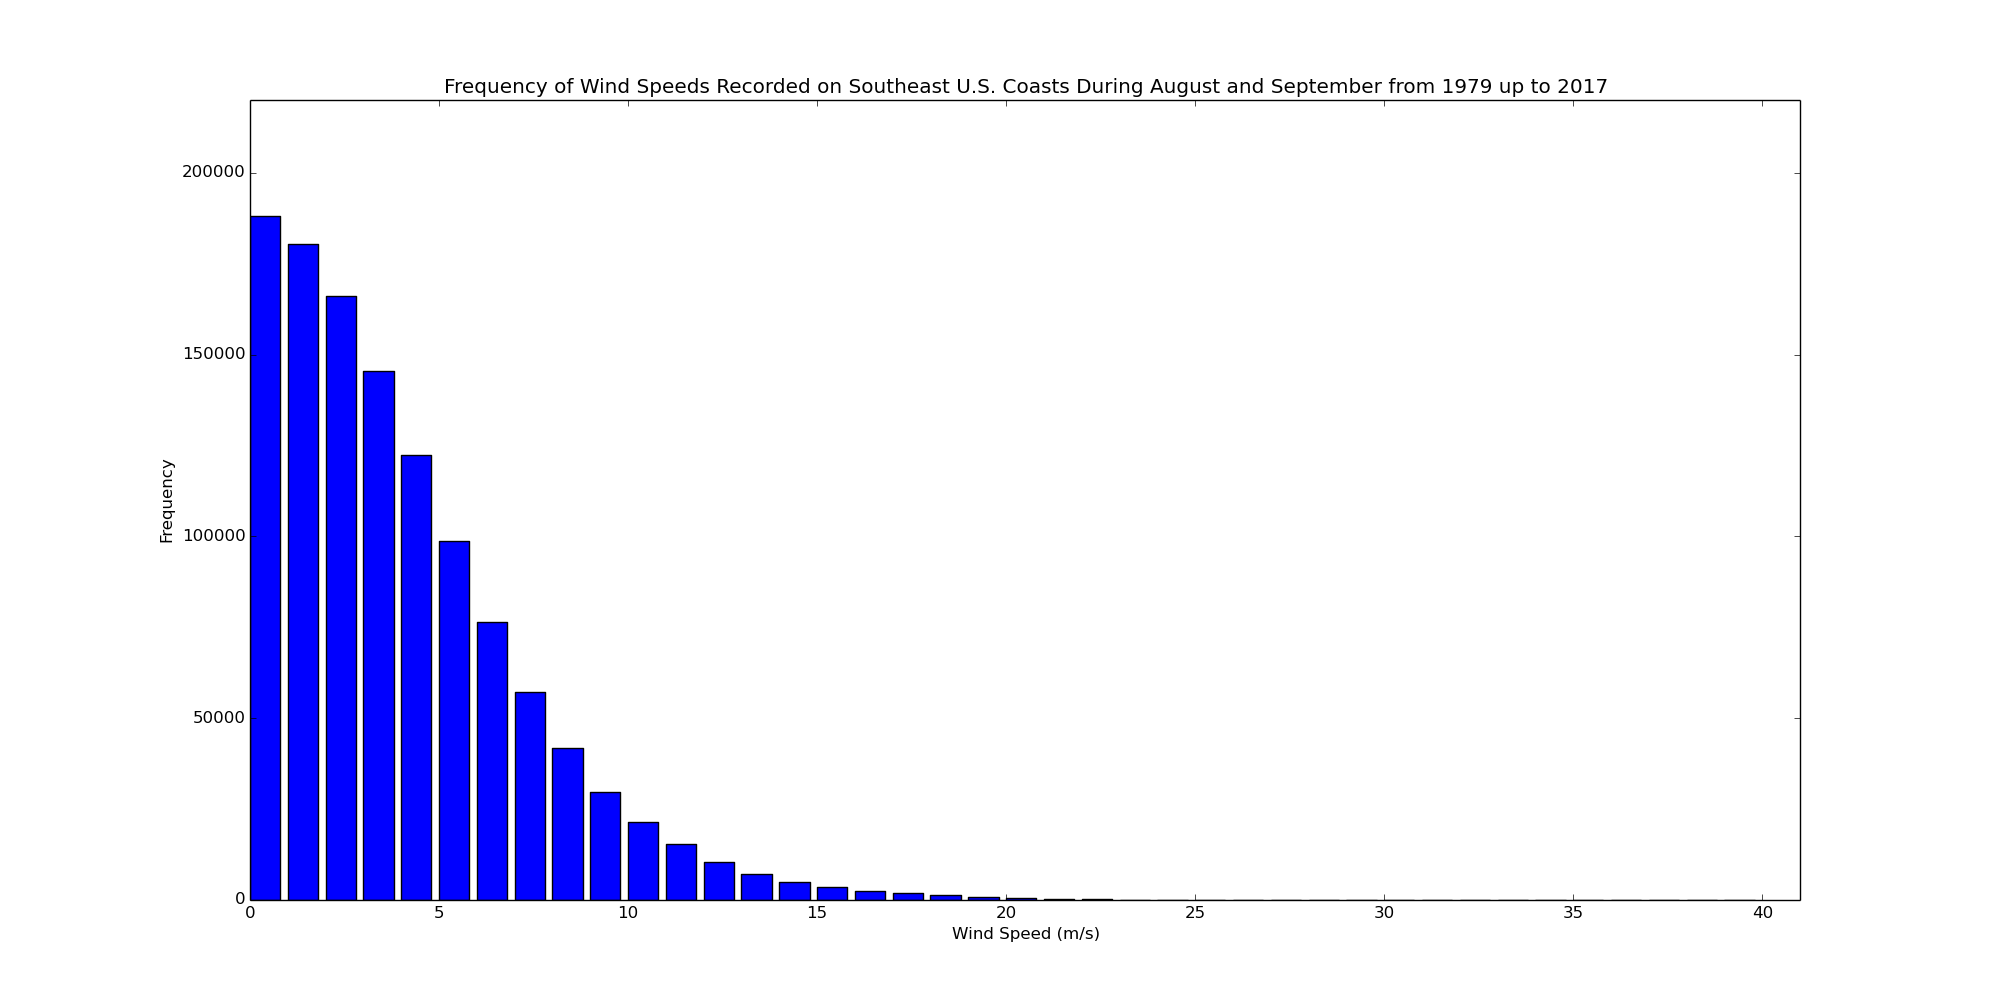
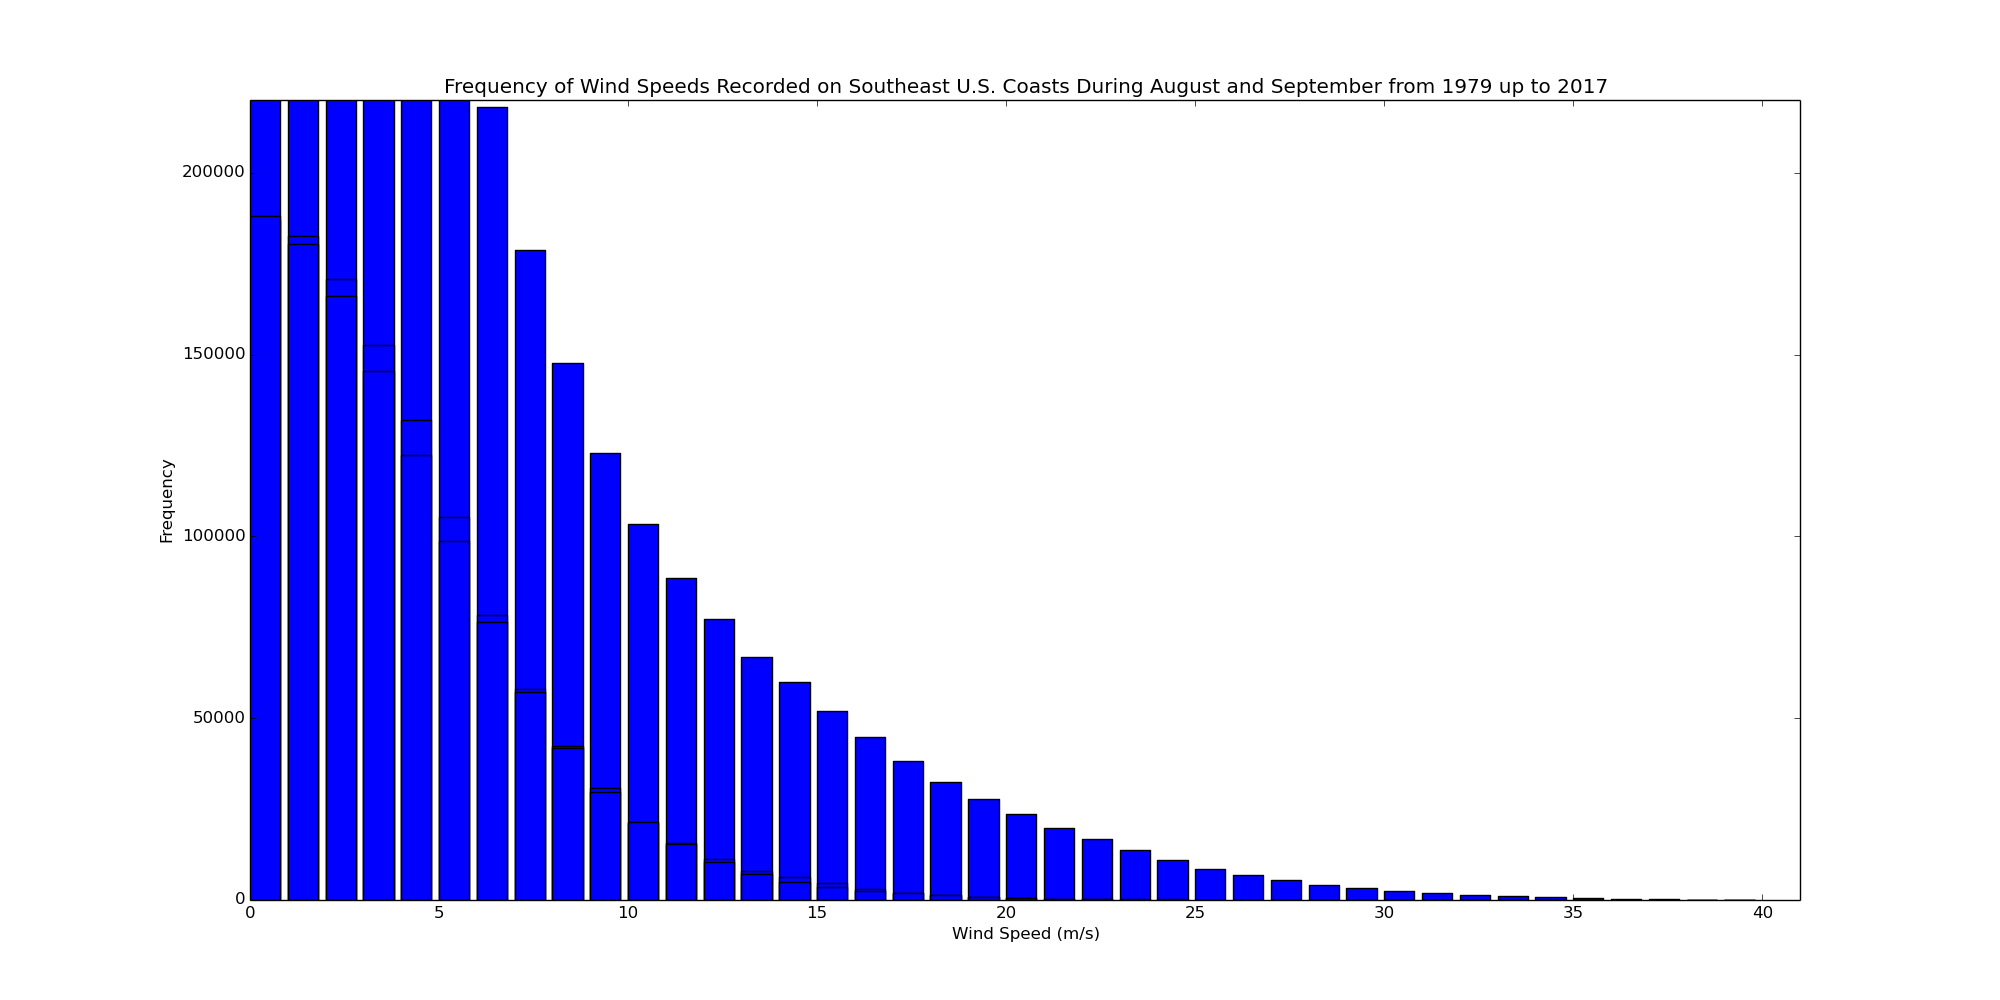
August/September test

Changed region(s): [[0.124, 0.093, 0.775, 0.899]]

diff --git a/DLM_stats.py b/DLM_stats.py
@@ -16,10 +16,11 @@
 import math
 import sys
 import numpy as np
+import matplotlib
+matplotlib.use('Agg')
 import matplotlib.pyplot as plt
 from datetime import datetime
 from mpl_toolkits.basemap import Basemap
-
 
 # Description: Converts floats to Datetime objects
 # Input: -measurement_times: An array of floats (which should represent a time and date)
@@ -127,7 +128,7 @@ def calcNumStagFlow(wind_speed_freq, stagnant_flow):
     return num_stag_flow
 
 
-# Description: Splits the wind speed data into three different arrays, based on the
+# Description: Splits the wind speed data into five different arrays, based on the
 #              time of the hurricane season that the measurement was taken at
 # Input: -wind_speeds: An array that stores an array of floats. Each array within
 #                      this array represents a different location, while each float
@@ -143,10 +144,16 @@ def calcNumStagFlow(wind_speed_freq, stagnant_flow):
 #         -wind_speeds_LHS: Like wind_speeds_EHS and wind_speeds_MHS, except all wind
 #                           speeds in this array were measured in the late part of the
 #                           Atlantic hurricane season (October or November)
+#         -wind_speeds_Aug: Same as the above arrays, except all wind speed measurements
+#                           were taken in August
+#         -wind_speeds_Sep: Same as the above arrays, except all wind speed measurements
+#                           were taken in September
 def divideBySeason(wind_speeds):
     wind_speeds_EHS = [[None]] * len(wind_speeds)
     wind_speeds_MHS = [[None]] * len(wind_speeds)
     wind_speeds_LHS = [[None]] * len(wind_speeds)
+    wind_speeds_Aug = [[None]] * len(wind_speeds)
+    wind_speeds_Sep = [[None]] * len(wind_speeds)
     i = 0
 
     # Go through each location
@@ -176,11 +183,22 @@ def divideBySeason(wind_speeds):
                 else:
                     wind_speeds_MHS[i].append(wind_speeds[i][j])
 
+                # Also add the measurement to the August or September array
+                if wind_speeds_Aug[i] == [None]:
+                    wind_speeds_Aug[i] = [wind_speeds[i][j]]
+                else:
+                    wind_speeds_Aug[i].append(wind_speeds[i][j])
+
+                if wind_speeds_Sep[i] == [None]:
+                    wind_speeds_Sep[i] = [wind_speeds[i][j]]
+                else:
+                    wind_speeds_Sep[i].append(wind_speeds[i][j])
+
             j = j + 1
 
         i = i + 1
 
-    return wind_speeds_EHS, wind_speeds_MHS, wind_speeds_LHS
+    return wind_speeds_EHS, wind_speeds_MHS, wind_speeds_LHS, wind_speeds_Aug, wind_speeds_Sep
 
 
 # Description: Averages wind speeds over a specified time interval.
@@ -393,19 +411,26 @@ plt.show()
 wind_speed_freq_all_EHS = [0] * max_wind_speed
 wind_speed_freq_all_MHS = [0] * max_wind_speed
 wind_speed_freq_all_LHS = [0] * max_wind_speed
+wind_speed_freq_all_Aug = [0] * max_wind_speed
+wind_speed_freq_all_Sep = [0] * max_wind_speed
 
 # Divide the wind speed data up by which part of the hurricane season they were taken in
 # (early hurricane season (June, July), mid  hurricane season (August, September), and
-# late hurricane season (October, November))
-wind_speeds_79_16_EHS, wind_speeds_79_16_MHS, wind_speeds_79_16_LHS = divideBySeason(wind_speeds_79_16)
+# late hurricane season (October, November)). Also get data for August and September
+# individually
+wind_speeds_79_16_EHS, wind_speeds_79_16_MHS, wind_speeds_79_16_LHS, wind_speeds_79_16_Aug, wind_speeds_79_16_Sep = divideBySeason(wind_speeds_79_16)
 
 # Populate the wind speed frequency arrays for each of the three parts of the hurricane season
+# (and August and September)
 getFrequencies(wind_speeds_79_16_EHS, wind_speed_freq_all_EHS)
 getFrequencies(wind_speeds_79_16_MHS, wind_speed_freq_all_MHS)
 getFrequencies(wind_speeds_79_16_LHS, wind_speed_freq_all_LHS)
+getFrequencies(wind_speeds_79_16_Aug, wind_speed_freq_all_Aug)
+getFrequencies(wind_speeds_79_16_Sep, wind_speed_freq_all_Sep)
 
 # Generate histograms to show the frequency distribution for the wind speeds at all
 # measured locations for each of the three parts of the hurricane season from 1979 to 2017
+# (also August and September)
 plt.figure(1, figsize = (20,10))
 plt.bar(np.arange(len(wind_speed_freq_all_MHS)), wind_speed_freq_all_EHS)
 plt.xlim(xmax = max_wind_speed + 1)
@@ -430,6 +455,32 @@ plt.title('Frequency of Wind Speeds Recorded on ' + location_names[region][1] + 
           'August and September from 1979 up to 2017')
 plt.savefig('Figures/' + location_names[region][0]  + '/Wind_Speeds_' + location_names[region][0] + '_79-16_MHS_Histogram.png')
 plt.savefig('Figures/WS_79-16_MHS/Wind_Speeds_' + location_names[region][0] + '_79-16_MHS_Histogram.png')
+plt.show()
+
+plt.figure(1, figsize = (20,10))
+plt.bar(np.arange(len(wind_speed_freq_all_Aug)), wind_speed_freq_all_Aug)
+plt.xlim(xmax = max_wind_speed + 1)
+if region == 'AL':
+    plt.ylim(ymax = 220000)
+plt.ylabel('Frequency')
+plt.xlabel('Wind Speed (m/s)')
+plt.title('Frequency of Wind Speeds Recorded on ' + location_names[region][1] + ' During ' +
+          'the Month of August from 1979 up to 2017')
+plt.savefig('Figures/' + location_names[region][0]  + '/Wind_Speeds_' + location_names[region][0] + '_79-16_Aug_Histogram.png')
+plt.savefig('Figures/WS_79-16_Aug/Wind_Speeds_' + location_names[region][0] + '_79-16_Aug_Histogram.png')
+plt.show()
+
+plt.figure(1, figsize = (20,10))
+plt.bar(np.arange(len(wind_speed_freq_all_Sep)), wind_speed_freq_all_Sep)
+plt.xlim(xmax = max_wind_speed + 1)
+if region == 'AL':
+    plt.ylim(ymax = 220000)
+plt.ylabel('Frequency')
+plt.xlabel('Wind Speed (m/s)')
+plt.title('Frequency of Wind Speeds Recorded on ' + location_names[region][1] + ' During ' +
+          'the Month of September from 1979 up to 2017')
+plt.savefig('Figures/' + location_names[region][0]  + '/Wind_Speeds_' + location_names[region][0] + '_79-16_Sep_Histogram.png')
+plt.savefig('Figures/WS_79-16_Sep/Wind_Speeds_' + location_names[region][0] + '_79-16_Sep_Histogram.png')
 plt.show()
 
 plt.figure(1, figsize = (20,10))
@@ -547,24 +598,33 @@ plt.show()
 wind_speed_freq_79_97_EHS = [0] * max_wind_speed
 wind_speed_freq_79_97_MHS = [0] * max_wind_speed
 wind_speed_freq_79_97_LHS = [0] * max_wind_speed
+wind_speed_freq_79_97_Aug = [0] * max_wind_speed
+wind_speed_freq_79_97_Sep = [0] * max_wind_speed
 wind_speed_freq_98_16_EHS = [0] * max_wind_speed
 wind_speed_freq_98_16_MHS = [0] * max_wind_speed
 wind_speed_freq_98_16_LHS = [0] * max_wind_speed
+wind_speed_freq_98_16_Aug = [0] * max_wind_speed
+wind_speed_freq_98_16_Sep = [0] * max_wind_speed
 
 # Divide the wind speed data up by which part of the hurricane season they were taken in
-# (early hurricane season (June, July), mid  hurricane season (August, September), and
-# late hurricane season (October, November))
-wind_speeds_79_97_EHS, wind_speeds_79_97_MHS, wind_speeds_79_97_LHS = divideBySeason(wind_speeds_79_97)
-wind_speeds_98_16_EHS, wind_speeds_98_16_MHS, wind_speeds_98_16_LHS = divideBySeason(wind_speeds_98_16)
+# (early hurricane season (June, July), mid hurricane season (August, September), and
+# late hurricane season (October, November)). Also get data for the months of August and
+# September individually
+wind_speeds_79_97_EHS, wind_speeds_79_97_MHS, wind_speeds_79_97_LHS, wind_speeds_79_97_Aug, wind_speeds_79_97_Sep = divideBySeason(wind_speeds_79_97)
+wind_speeds_98_16_EHS, wind_speeds_98_16_MHS, wind_speeds_98_16_LHS, wind_speeds_98_16_Aug, wind_speeds_98_16_Sep = divideBySeason(wind_speeds_98_16)
 
 # Populate the wind speed frequency arrays for each of the three parts of the hurricane
-# season for each time period
+# season for each time period (and August and September)
 getFrequencies(wind_speeds_79_97_EHS, wind_speed_freq_79_97_EHS)
 getFrequencies(wind_speeds_79_97_MHS, wind_speed_freq_79_97_MHS)
 getFrequencies(wind_speeds_79_97_LHS, wind_speed_freq_79_97_LHS)
+getFrequencies(wind_speeds_79_97_Aug, wind_speed_freq_79_97_Aug)
+getFrequencies(wind_speeds_79_97_Sep, wind_speed_freq_79_97_Sep)
 getFrequencies(wind_speeds_98_16_EHS, wind_speed_freq_98_16_EHS)
 getFrequencies(wind_speeds_98_16_MHS, wind_speed_freq_98_16_MHS)
 getFrequencies(wind_speeds_98_16_LHS, wind_speed_freq_98_16_LHS)
+getFrequencies(wind_speeds_98_16_Aug, wind_speed_freq_98_16_Aug)
+getFrequencies(wind_speeds_98_16_Sep, wind_speed_freq_98_16_Sep)
 
 # Plot the two time periods side by side for each part of the hurricane season
 fig, ax = plt.subplots(figsize = (20,10))
@@ -607,6 +667,44 @@ plt.show()
 
 fig, ax = plt.subplots(figsize = (20,10))
 bar_width = 0.35
+ax.bar(np.arange(len(wind_speed_freq_79_97_Aug)), wind_speed_freq_79_97_Aug, bar_width,
+                color='b', label='1979-1997')
+ax.bar(np.arange(len(wind_speed_freq_98_16_Aug)) + bar_width, wind_speed_freq_98_16_Aug,
+                bar_width, color='r', label='1998-2016')
+ax.set_xlim(xmax = max_wind_speed + 1)
+if region == 'AL':
+    ax.set_ylim(ymax = 120000)
+ax.set_xlabel('Wind Speed (m/s)')
+ax.set_ylabel('Frequency')
+ax.set_title('Frequency of Wind Speeds Recorded on ' + location_names[region][1] + ' in the Month ' +
+             'of August During\nHurricane Seasons from 1979 up to 1998 vs. Hurricane ' +
+             'Seasons from 1998 up to 2017')
+ax.legend()
+fig.savefig('Figures/' + location_names[region][0]  + '/Wind_Speeds_' + location_names[region][0] + '_79-97_98-16_Aug_SBS_Histogram.png')
+fig.savefig('Figures/WS_79-97_98-16_Aug_SBS/Wind_Speeds_' + location_names[region][0] + '_79-97_98-16_Aug_SBS_Histogram.png')
+plt.show()
+
+fig, ax = plt.subplots(figsize = (20,10))
+bar_width = 0.35
+ax.bar(np.arange(len(wind_speed_freq_79_97_Sep)), wind_speed_freq_79_97_Sep, bar_width,
+                color='b', label='1979-1997')
+ax.bar(np.arange(len(wind_speed_freq_98_16_Sep)) + bar_width, wind_speed_freq_98_16_Sep,
+                bar_width, color='r', label='1998-2016')
+ax.set_xlim(xmax = max_wind_speed + 1)
+if region == 'AL':
+    ax.set_ylim(ymax = 120000)
+ax.set_xlabel('Wind Speed (m/s)')
+ax.set_ylabel('Frequency')
+ax.set_title('Frequency of Wind Speeds Recorded on ' + location_names[region][1] + ' in the Month ' +
+             'of September During\nHurricane Seasons from 1979 up to 1998 vs. Hurricane ' +
+             'Seasons from 1998 up to 2017')
+ax.legend()
+fig.savefig('Figures/' + location_names[region][0]  + '/Wind_Speeds_' + location_names[region][0] + '_79-97_98-16_Sep_SBS_Histogram.png')
+fig.savefig('Figures/WS_79-97_98-16_Sep_SBS/Wind_Speeds_' + location_names[region][0] + '_79-97_98-16_Sep_SBS_Histogram.png')
+plt.show()
+
+fig, ax = plt.subplots(figsize = (20,10))
+bar_width = 0.35
 ax.bar(np.arange(len(wind_speed_freq_79_97_LHS)), wind_speed_freq_79_97_LHS, bar_width,
                 color='b', label='1979-1997')
 ax.bar(np.arange(len(wind_speed_freq_98_16_LHS)) + bar_width, wind_speed_freq_98_16_LHS,
@@ -644,6 +742,18 @@ while i < len(wind_speed_freq_79_97_LHS):
     wind_speed_freq_LHS_diff[i] = wind_speed_freq_98_16_LHS[i] - wind_speed_freq_79_97_LHS[i]
     i = i + 1
 
+i = 0
+wind_speed_freq_Aug_diff = [0] * len(wind_speed_freq_79_97_Aug)
+while i < len(wind_speed_freq_79_97_Aug):
+    wind_speed_freq_Aug_diff[i] = wind_speed_freq_98_16_Aug[i] - wind_speed_freq_79_97_Aug[i]
+    i = i + 1
+
+i = 0
+wind_speed_freq_Sep_diff = [0] * len(wind_speed_freq_79_97_Sep)
+while i < len(wind_speed_freq_79_97_Sep):
+    wind_speed_freq_Sep_diff[i] = wind_speed_freq_98_16_Sep[i] - wind_speed_freq_79_97_Sep[i]
+    i = i + 1
+
 # Create histograms that show the difference between the wind speed frequencies for
 # the two time periods for each part of the hurricane season
 plt.figure(1, figsize = (20,10))
@@ -672,6 +782,34 @@ plt.title('Difference Between Frequency of Wind Speeds Recorded on ' + location_
           'Seasons from 1998 up to 2017')
 plt.savefig('Figures/' + location_names[region][0]  + '/Wind_Speeds_' + location_names[region][0] + '_Diff_Between_79-97_and_98-16_MHS_Histogram.png')
 plt.savefig('Figures/WS_Diff_79-97_98-16_MHS/Wind_Speeds_' + location_names[region][0] + '_Diff_Between_79-97_and_98-16_MHS_Histogram.png')
+plt.show()
+
+plt.figure(1, figsize = (20,10))
+plt.bar(np.arange(len(wind_speed_freq_Aug_diff)), wind_speed_freq_Aug_diff)
+plt.xlim(xmax = max_wind_speed + 1)
+if region == 'AL':
+    plt.ylim(ymax = 9000, ymin = -7000)
+plt.ylabel('Frequency Difference')
+plt.xlabel('Wind Speed (m/s)')
+plt.title('Difference Between Frequency of Wind Speeds Recorded on ' + location_names[region][1] + ' in the Month ' +
+          'of August\nDuring Hurricane Seasons from 1979 up to 1998 and During Hurricane ' +
+          'Seasons from 1998 up to 2017')
+plt.savefig('Figures/' + location_names[region][0]  + '/Wind_Speeds_' + location_names[region][0] + '_Diff_Between_79-97_and_98-16_Aug_Histogram.png')
+plt.savefig('Figures/WS_Diff_79-97_98-16_Aug/Wind_Speeds_' + location_names[region][0] + '_Diff_Between_79-97_and_98-16_Aug_Histogram.png')
+plt.show()
+
+plt.figure(1, figsize = (20,10))
+plt.bar(np.arange(len(wind_speed_freq_Sep_diff)), wind_speed_freq_Sep_diff)
+plt.xlim(xmax = max_wind_speed + 1)
+if region == 'AL':
+    plt.ylim(ymax = 9000, ymin = -7000)
+plt.ylabel('Frequency Difference')
+plt.xlabel('Wind Speed (m/s)')
+plt.title('Difference Between Frequency of Wind Speeds Recorded on ' + location_names[region][1] + ' in the Month ' +
+          'of September\nDuring Hurricane Seasons from 1979 up to 1998 and During Hurricane ' +
+          'Seasons from 1998 up to 2017')
+plt.savefig('Figures/' + location_names[region][0]  + '/Wind_Speeds_' + location_names[region][0] + '_Diff_Between_79-97_and_98-16_Sep_Histogram.png')
+plt.savefig('Figures/WS_Diff_79-97_98-16_Sep/Wind_Speeds_' + location_names[region][0] + '_Diff_Between_79-97_and_98-16_Sep_Histogram.png')
 plt.show()
 
 plt.figure(1, figsize = (20,10))
@@ -932,3 +1070,53 @@ print('Standard Deviation of Observed Wind Speed for ' + location_names[region][
       'from 1979 up to 1998: ' + str(np.std(wind_speeds_79_97_LHS)) + ' m/s')
 print('Standard Deviation of Observed Wind Speed for ' + location_names[region][2] + ' in October and November ' +
       'from 1998 up to 2017: ' + str(np.std(wind_speeds_98_16_LHS)) + ' m/s\n')
+
+print('Total Number of Stagnant Flow Measurements Observed in August ' +
+      'at ' + location_names[region][2] + ' from 1979 up to 2017: ' + str(calcNumStagFlow(wind_speed_freq_all_Aug, stagnant_flow)))
+print('Total Number of Stagnant Flow Measurements Observed in August ' +
+      'at ' + location_names[region][2] + ' from 1979 up to 1998: ' + str(calcNumStagFlow(wind_speed_freq_79_97_Aug, stagnant_flow)))
+print('Total Number of Stagnant Flow Measurements Observed in August ' +
+      'at ' + location_names[region][2] + ' from 1998 up to 2017: ' + str(calcNumStagFlow(wind_speed_freq_98_16_Aug, stagnant_flow)))
+print('Mean Observed Wind Speed for ' + location_names[region][2] + ' in August from 1979 up to 2017: ' +
+      str(np.mean(wind_speeds_79_16_Aug)) + ' m/s')
+print('Mean Observed Wind Speed for ' + location_names[region][2] + ' in August from 1979 up to 1998: ' +
+      str(np.mean(wind_speeds_79_97_Aug)) + ' m/s')
+print('Mean Observed Wind Speed for ' + location_names[region][2] + ' in August from 1998 up to 2017: ' +
+      str(np.mean(wind_speeds_98_16_Aug)) + ' m/s')
+print('Median Observed Wind Speed for ' + location_names[region][2] + ' in August from 1979 up to 2017: ' +
+      str(np.median(wind_speeds_79_16_Aug)) + ' m/s')
+print('Median Observed Wind Speed for ' + location_names[region][2] + ' in August from 1979 up to 1998: ' +
+      str(np.median(wind_speeds_79_97_Aug)) + ' m/s')
+print('Median Observed Wind Speed for ' + location_names[region][2] + ' in August from 1998 up to 2017: ' +
+      str(np.median(wind_speeds_98_16_Aug)) + ' m/s')
+print('Standard Deviation of Observed Wind Speed for ' + location_names[region][2] + ' in August ' +
+      'from 1979 up to 2017: ' + str(np.std(wind_speeds_79_16_Aug)) + ' m/s')
+print('Standard Deviation of Observed Wind Speed for ' + location_names[region][2] + ' in August ' +
+      'from 1979 up to 1998: ' + str(np.std(wind_speeds_79_97_Aug)) + ' m/s')
+print('Standard Deviation of Observed Wind Speed for ' + location_names[region][2] + ' in August ' +
+      'from 1998 up to 2017: ' + str(np.std(wind_speeds_98_16_Aug)) + ' m/s\n')
+
+print('Total Number of Stagnant Flow Measurements Observed in September ' +
+      'at ' + location_names[region][2] + ' from 1979 up to 2017: ' + str(calcNumStagFlow(wind_speed_freq_all_Sep, stagnant_flow)))
+print('Total Number of Stagnant Flow Measurements Observed in September ' +
+      'at ' + location_names[region][2] + ' from 1979 up to 1998: ' + str(calcNumStagFlow(wind_speed_freq_79_97_Sep, stagnant_flow)))
+print('Total Number of Stagnant Flow Measurements Observed in September ' +
+      'at ' + location_names[region][2] + ' from 1998 up to 2017: ' + str(calcNumStagFlow(wind_speed_freq_98_16_Sep, stagnant_flow)))
+print('Mean Observed Wind Speed for ' + location_names[region][2] + ' in September from 1979 up to 2017: ' +
+      str(np.mean(wind_speeds_79_16_Sep)) + ' m/s')
+print('Mean Observed Wind Speed for ' + location_names[region][2] + ' in September from 1979 up to 1998: ' +
+      str(np.mean(wind_speeds_79_97_Sep)) + ' m/s')
+print('Mean Observed Wind Speed for ' + location_names[region][2] + ' in September from 1998 up to 2017: ' +
+      str(np.mean(wind_speeds_98_16_Sep)) + ' m/s')
+print('Median Observed Wind Speed for ' + location_names[region][2] + ' in September from 1979 up to 2017: ' +
+      str(np.median(wind_speeds_79_16_Sep)) + ' m/s')
+print('Median Observed Wind Speed for ' + location_names[region][2] + ' in September from 1979 up to 1998: ' +
+      str(np.median(wind_speeds_79_97_Sep)) + ' m/s')
+print('Median Observed Wind Speed for ' + location_names[region][2] + ' in September from 1998 up to 2017: ' +
+      str(np.median(wind_speeds_98_16_Sep)) + ' m/s')
+print('Standard Deviation of Observed Wind Speed for ' + location_names[region][2] + ' in September ' +
+      'from 1979 up to 2017: ' + str(np.std(wind_speeds_79_16_Sep)) + ' m/s')
+print('Standard Deviation of Observed Wind Speed for ' + location_names[region][2] + ' in September ' +
+      'from 1979 up to 1998: ' + str(np.std(wind_speeds_79_97_Sep)) + ' m/s')
+print('Standard Deviation of Observed Wind Speed for ' + location_names[region][2] + ' in September ' +
+      'from 1998 up to 2017: ' + str(np.std(wind_speeds_98_16_Sep)) + ' m/s\n')
